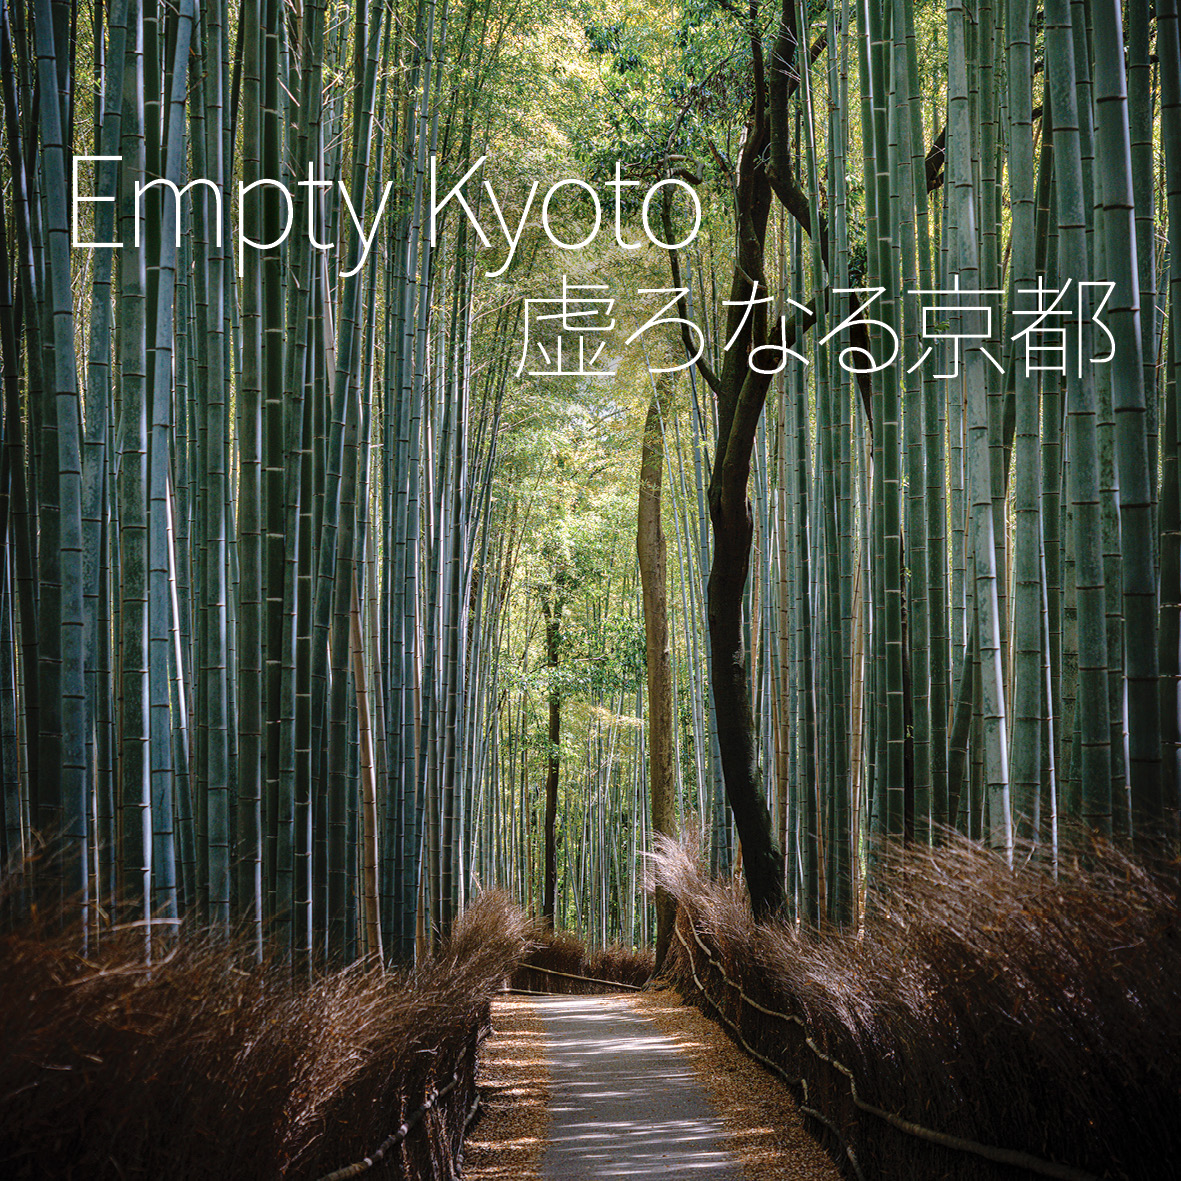
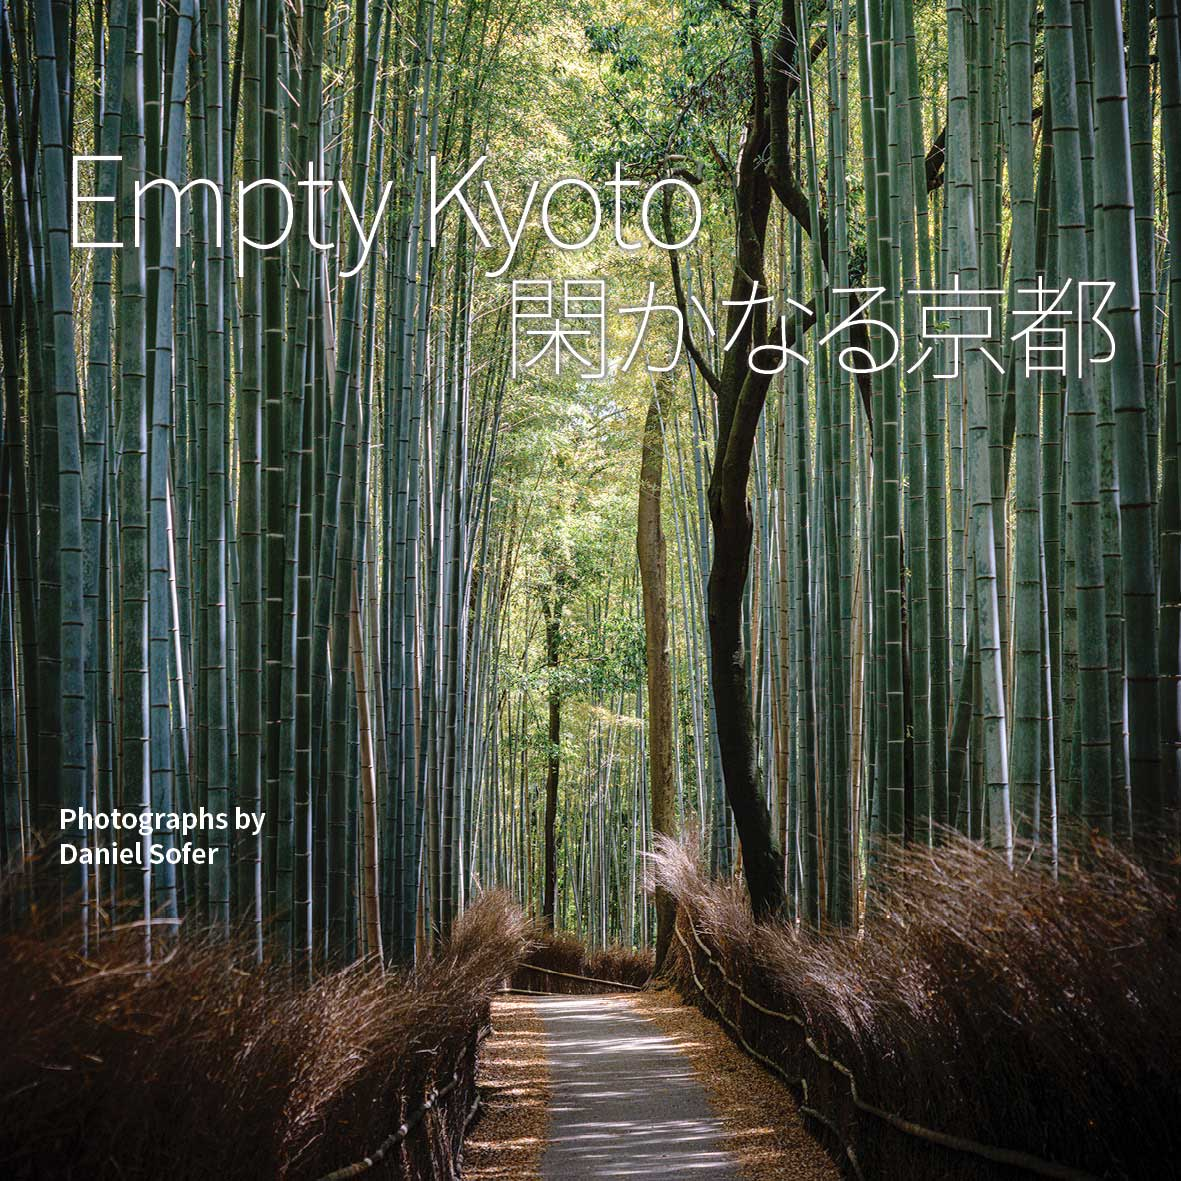
Updated Cover 閑かなる京都

diff --git a/emptykyoto/index.html b/emptykyoto/index.html
@@ -3,7 +3,7 @@
   <head>
     <meta charset="utf-8">
 	<meta name="viewport" id="viewport" content="width=device-width, initial-scale=1.0, minimum-scale=1.0,maximum-scale=10.0, minimal-ui" />
-    <title>Hermosawave Photography: Empty Kyoto・虚ろなる京都</title>
+    <title>Hermosawave Photography: Empty Kyoto・閑かなる京都</title>
         <!-- Typekit Asian Font Loader -->
 <!-- 
 font-family: ryo-gothic-plusn, sans-serif; (200, 400, 700)
@@ -80,7 +80,7 @@ font-family: ryo-gothic-plusn, sans-serif; (200, 400, 700)
 
          
                 <div class="topbody">
-    <h1>Empty Kyoto・虚ろなる京都</h1>         
+    <h1>Empty Kyoto・閑かなる京都</h1>         
 
     <div id="frontpageleft">
              <h2><img src="/assets/images/emptykyoto/EK_PitchBook.jpg" /></h2>    
@@ -102,7 +102,7 @@ font-family: ryo-gothic-plusn, sans-serif; (200, 400, 700)
             <p class="jp">
                 日本の文化の中心であり、1000年以上の 歴史を持つ首都である京都は、常に過剰 な観光客に悩まされてきました。
                 ところが、2020年、2021年は混雑がなくな り、普段は撮れないような場所でもきれい に撮れるようになりました。
-                「虚ろなる京都」は、瞑想のための庭園 が、次の場所へ急ぐ前にまた自撮りをす る群衆に邪魔されることのない、一生に 一度しかない時代の写真をまとめたもの である。
+                「閑かなる京都」は、瞑想のための庭園 が、次の場所へ急ぐ前にまた自撮りをす る群衆に邪魔されることのない、一生に 一度しかない時代の写真をまとめたもの である。
             </p>
         </div>
 </div> 
